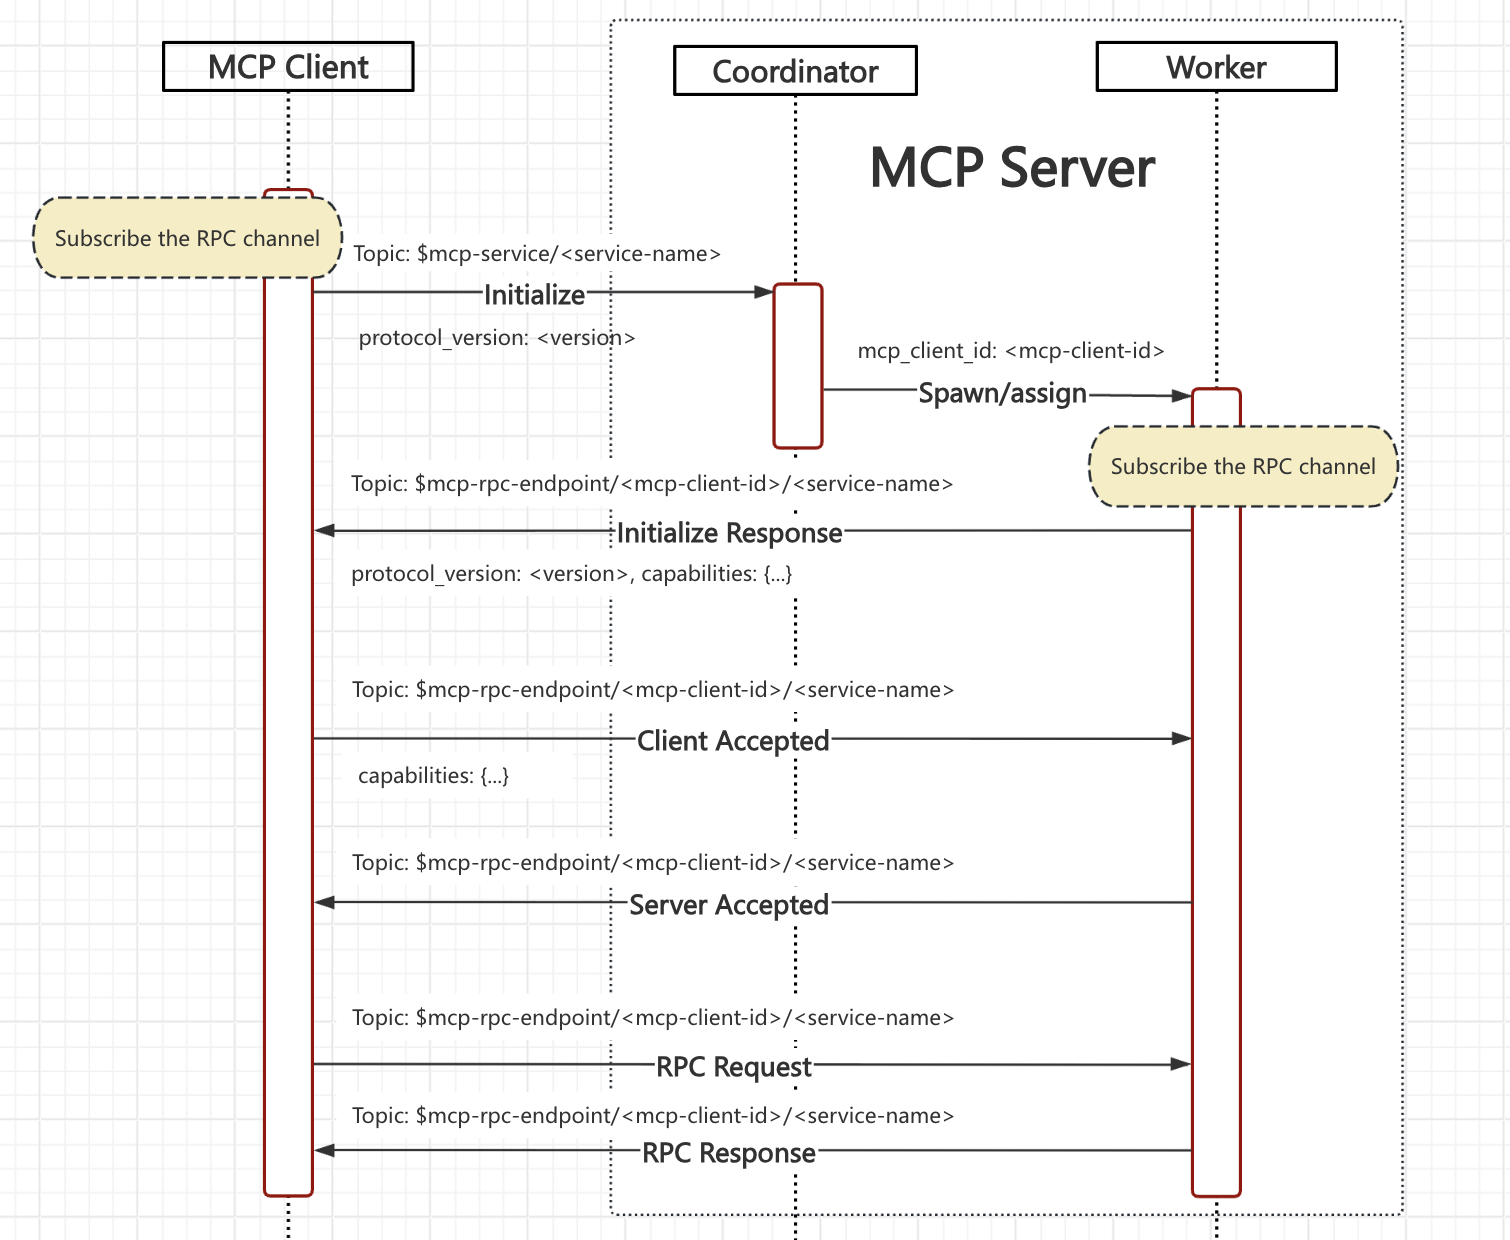
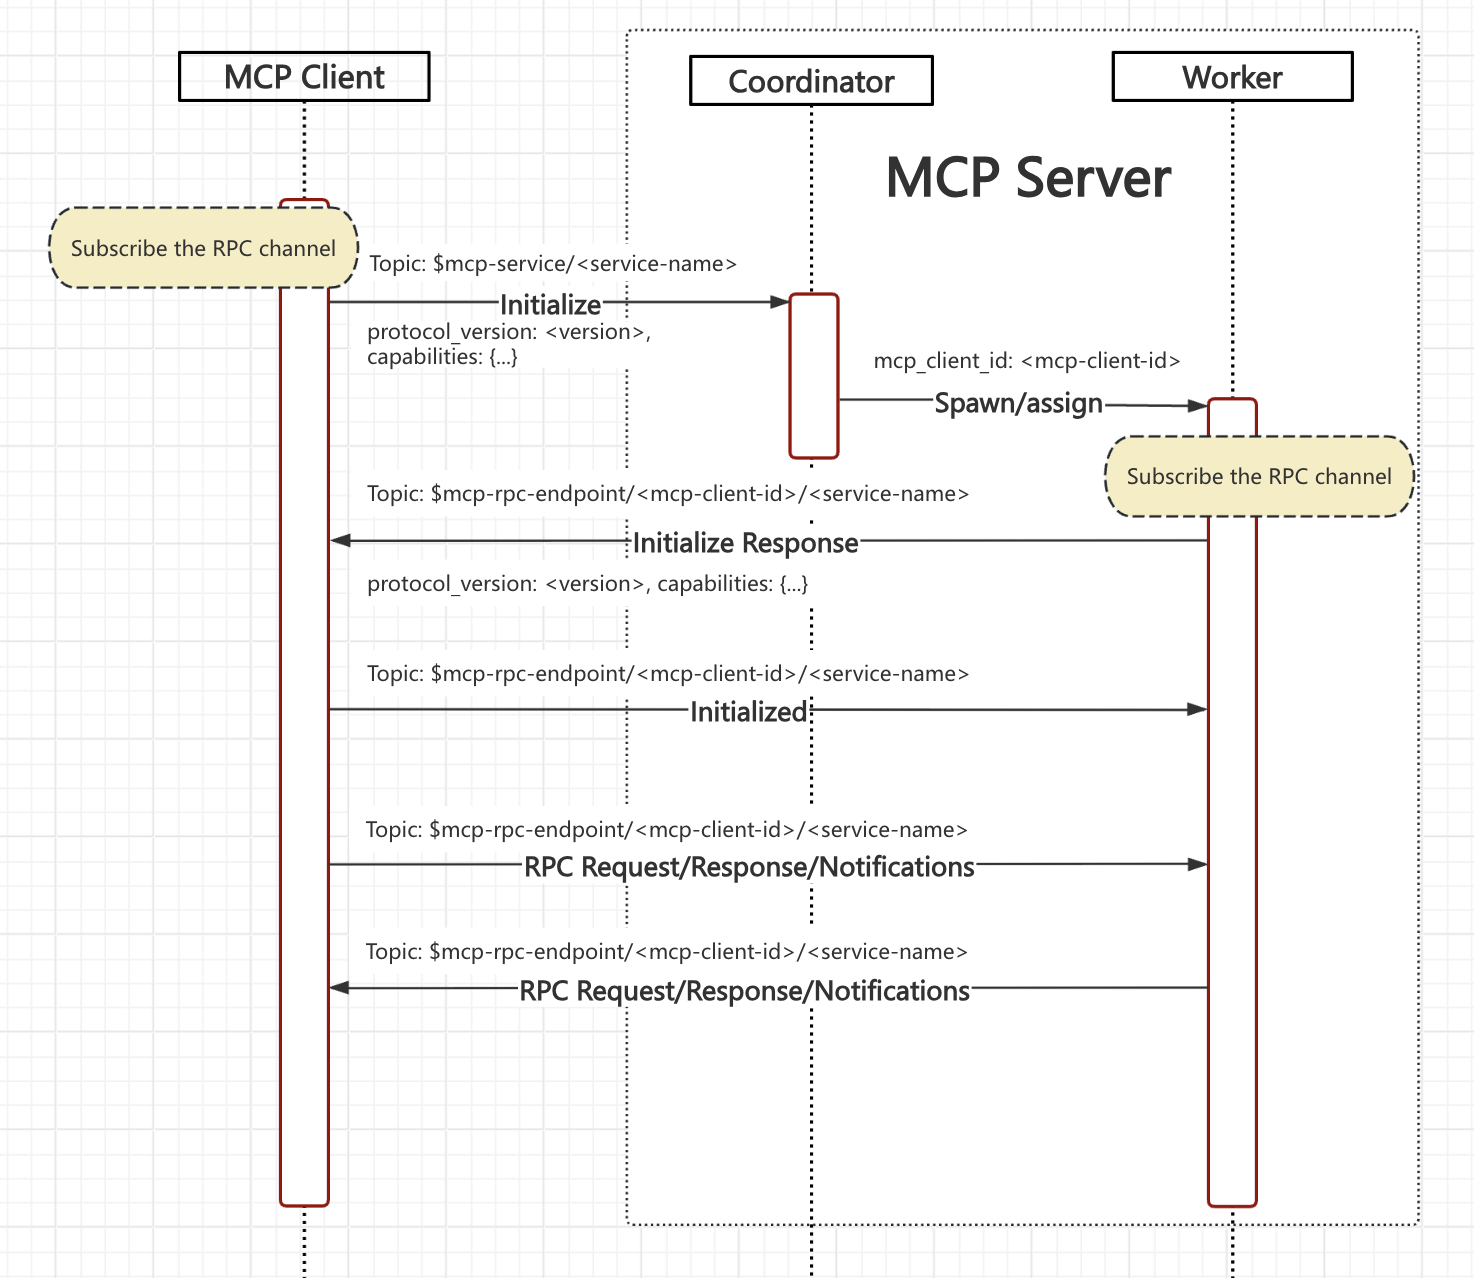
add docs for resource update

diff --git a/content/docs/specification/draft/basic/transports.md b/content/docs/specification/draft/basic/transports.md
@@ -5,7 +5,7 @@ weight: 10
 ---
 
 {{< callout type="info" >}}
-This page is modified from [MCP-Architecture](https://spec.modelcontextprotocol.io/specification/draft/basic/transports/) for the MQTT transport layer, modifications include:
+This page is modified from [MCP-Transport](https://spec.modelcontextprotocol.io/specification/draft/basic/transports/) for the MQTT transport layer, modifications include:
 
 - Rewrite for MQTT transport
 {{< /callout >}}
@@ -31,6 +31,8 @@ MCP uses JSON-RPC to encode messages. JSON-RPC messages **MUST** be UTF-8 encode
 - **service-name-filter**: The topic filter to match the `service-name`.
 
 - **service-id**: The MQTT Client ID of the MCP Server. Any string except `/`. It must be globally unique and will also be included in the topic.
+
+- **resource-id**: The resource ID identifies a resource that the server is managing. Any string except `/`. It must be unique within the service.
 
 - **mcp-client-id**: The MQTT Client ID of the client. Any string except `/`. It must be globally unique and will be included in the topic.
 
@@ -74,43 +76,42 @@ When scaling up, existing MCP Clients remain connected to the old service proces
 
 When scaling down, established RPC channels are interrupted, causing MCP Clients to re-initiate initialization requests to the MCP Server, thereby connecting to another service process.
 
-## Topics and Message Channels  
+# MQTT Requirements and Conventions
 
-MCP over MQTT transmits messages through MQTT topics, where each MQTT topic is referred to as a "channel" This protocol includes the following message channels:  
+## Message Channels (Topics) 
 
-- **Server Control Channel**: `$mcp-service/<service-name>`  
-  Used for sending and receiving initialization messages and other control messages.  
+MCP over MQTT transmits messages through MQTT topics, where each MQTT topic is referred to as a "channel". This protocol includes the following message channels:  
 
-- **Server Capability Update Channel**: `$mcp-service/capability-change/<service-id>/<service-name>`  
-  Used for sending and receiving server capability update messages.  
+| Channel Name                    | Topic Name                                            | Description |
+|---------------------------------|-------------------------------------------------------|-------------|
+| Server Control Channel          | `$mcp-service/<service-name>`                         | Used for sending and receiving initialization messages and other control messages. |
+| Server Capability Change Channel| `$mcp-service/capability-change/<service-id>/<service-name>` | Used for sending and receiving server capability list changed notification. |
+| Server Resource Update Channel| `$mcp-service/resource-update/<service-id>/<resource-id>` | Used for sending and receiving server resource updated notification. |
+| Service Discovery Channel       | `$mcp-service/presence/<service-id>/<service-name>`   | Used for sending and receiving server online/offline status messages. |
+| Client Capability Change Channel| `$mcp-client/capability-change/<mcp-client-id>`       | Used for sending and receiving client capability list changed notification. |
+| RPC Channel                     | `$mcp-rpc-endpoint/<mcp-client-id>/<service-name>`    | Used for sending and receiving RPC requests, RPC responses, and notification messages. |
 
-- **Service Discovery Channel**: `$mcp-service/presence/<service-id>/<service-name>`  
-  Used for sending and receiving server online/offline status messages.  
+## MQTT Version
 
-- **Client Capability Update Channel**: `$mcp-client/capability-change/<mcp-client-id>`  
-  Used for sending and receiving client capability update messages.  
+The server and client **MUST** use MQTT version 5.0.
 
-- **RPC Channel**: `$mcp-rpc-endpoint/<mcp-client-id>/<service-name>`  
-  Used for sending and receiving RPC requests, RPC responses, and notification messages.
+## QoS
 
-## MQTT Requirements and Conventions
+The QoS level for all messages **MUST** be 1.
 
-- **MQTT Version**: The server and client **MUST** use MQTT version 5.0.
-- **QoS**: The QoS level for all messages **MUST** be 1.
-
-## MQTT ClientID
+## MQTT Client ID
 
 ### Server Coordinator
 
-The ClientID of the Coordinator can be any string except `/`, referred to as service-id.
+The Client ID of the Coordinator can be any string except `/`, referred to as `service-id`.
 
 ### Server Worker
 
-The ClientID of the Worker is `<service-id>:<ID>`, where service-id is the ClientID of the Coordinator, and `<ID>` can be any string except `/`.
+The Client ID of the Worker is `<service-id>:<ID>`, where `<service-id>` is the Client ID of the Coordinator, and `<ID>` can be any string except `/`.
 
 ### MCP Client
 
-The ClientID of the MCP Client, referred to as `mcp-client-id`, can be any string except `/`.
+The Client ID of the MCP Client, referred to as `mcp-client-id`, can be any string except `/`.
 
 ## MQTT Topics and Topic Filters
 
@@ -118,36 +119,44 @@ The ClientID of the MCP Client, referred to as `mcp-client-id`, can be any strin
 
 | Subscriber         | Topic Filter                                         | Explanation |
 |-------------------|----------------------------------------------------|-------------|
-| Server Coordinator | `$share/any/$mcp-service/<service-name>`          | The control channel of the MCP server to receive control plane messages. We use shared subscription to force a message only goes to exactly 1 coordinator. |
-| Server Coordinator | `$mcp-client/capability-change/<mcp-client-id>`   | The client’s capability change channel to receive capability updates of the clients. |
+| Server Coordinator | `$share/any/$mcp-service/<service-name>`          | The control channel of the MCP server to receive control plane messages. We use shared subscription to force a message only goes to exactly one coordinator. |
+| Server Worker | `$mcp-client/capability-change/<mcp-client-id>`   | The client’s capability change channel to receive capability list changed notification of the clients. |
 | Server Worker      | `$mcp-rpc-endpoint/<mcp-client-id>/<service-name>` <br> - Set `no local` flag | The RPC channel to receive RPC requests, RPC responses, and notifications from a client. |
 
 ### Topics that MCP Server Publishes to
 
 | Publisher          | Topic Name                                            | Messages |
 |-------------------|------------------------------------------------------|----------|
-| Server Coordinator | `$mcp-service/capability-change/<service-id>/<service-name>` | Capability updated messages. See the details below this table. |
-| Server Coordinator | `$mcp-service/presence/<service-id>/<service-name>` <br> - Retain Flag: true <br> - Also set as a will topic to clear the retain message when offline | Presence messages for the MCP Server. <br> See the details below this table. |
-| Server Worker      | `$mcp-rpc-endpoint/<mcp-client-id>/<service-name>` <br> - Set as a will topic and the will msg is an offline notification | RPC requests, responses and notifications. <br> The offline msg (set will topic) is also a notification sent on this channel. |
+| Server Coordinator | `$mcp-service/capability-change/<service-id>/<service-name>` | capability changed notification.|
+| Server Coordinator | `$mcp-service/presence/<service-id>/<service-name>` <br> - Retain Flag: true <br> - Also set as a will topic with empty payload to clear the retain message when offline | Presence messages for the MCP Server. <br> See the details below this table. |
+| Server Coordinator | `$mcp-service/resource-update/<service-id>/<resource-id>` | Resource update notification.|
+| Server Worker      | `$mcp-rpc-endpoint/<mcp-client-id>/<service-name>` <br> - Set as a will topic with the payload to the `disconnected` notification | RPC requests, responses and notifications. |
 
 **Details:**
 
-The Presence message only contains service description information to avoid message size overhead. Detailed tool parameters are included in the capability message:
+The presence message **SHOULD** provide only limited information about the service to avoid excessive message size:
+
+- A brief description of the service's functionality to help clients determine which services they need to call.
+- Some metadata, such as hints about the permissions required to access this service, to help clients quickly assess whether they have access.
+
+More detailed information, such as parameter details of the tools, **SHOULD** be included in the capability message instead when the client initializes the service:
 
 ```json
-{"description": "This is a comprehensive description that details the functionalities provided by this service. If tools are provided, it explains which tools are available and their purposes but does not include tool parameters to reduce message size."}
-```
-
-Format of the capability change message:
-
-```json
-{"capability": {"<capability-name>": {...}}}
+{
+  "jsonrpc": "2.0",
+  "method": "notifications/service-online",
+  "params": {
+      "description": "This is a brief description about the functionalities provided by this service to allow clients to choose as needed. If tools are provided, it explains which tools are available but does not include tool parameters to reduce message size.",
+      "metadata": {}
+  }
+}
 ```
 
 ### Topics that MCP Client Subscribes to
 | Subscriber | Topic Filter                                         | Explanation |
 |------------|------------------------------------------------------|-------------|
-| Client     | `$mcp-service/capability-change/+/<service-name-filter>` | The capability change channel to receive capability updates of the service. |
+| Client     | `$mcp-service/capability-change/+/<service-name-filter>` | The capability change channel to receive capability list changed notification of the service. |
+| Client     | `$mcp-service/resource-update/+/<resource-id>` | The resource update channel to receive resource update notification of the service. |
 | Client     | `$mcp-service/presence/+/<service-name-filter>`      | The service discovery channel to receive the presence message of the service. |
 | Client     | `$mcp-rpc-endpoint/<mcp-client-id>/<service-name-filter>` <br> - Set `no local` flag | The RPC channel to receive PRC requests, responses and notifications sent by the MCP server. |
 
@@ -156,7 +165,7 @@ Format of the capability change message:
 | Publisher | Topic Name                                         | Messages |
 |-----------|---------------------------------------------------|----------|
 | Client    | `$mcp-service/<service-name>`                     | Send control plane messages like initialize. |
-| Client    | `$mcp-client/capability-change/<mcp-client-id>`   | Send client capability changes |
+| Client    | `$mcp-client/capability-change/<mcp-client-id>`   | Send client capability list changed notification |
 | Client    | `$mcp-rpc-endpoint/<mcp-client-id>/<service-name>` | The RPC channel to send RPC requests/responses to a specific server. |
 
 ## MQTT Authentication and Authorization

diff --git a/content/docs/specification/draft/basic/lifecycle.md b/content/docs/specification/draft/basic/lifecycle.md
@@ -5,7 +5,7 @@ weight: 30
 ---
 
 {{< callout type="info" >}}
-This page is modified from [MCP-Architecture](https://spec.modelcontextprotocol.io/specification/draft/basic/lifecyle/) for the MQTT transport layer, modifications include:
+This page is modified from [MCP-Lifecycle](https://spec.modelcontextprotocol.io/specification/draft/basic/lifecycle/) for the MQTT transport layer, modifications include:
 
 - Rewrite for MQTT transport
 {{< /callout >}}
@@ -28,8 +28,7 @@ sequenceDiagram
     activate Client
     Client->>+Server: initialize request
     Server-->>Client: initialize response
-    Client--)Server: client accepted notification
-    Server--)Client: server accepted notification
+    Client--)Server: initialized notification
 
     Note over Client,Server: Operation Phase
     rect rgb(200, 220, 250)
@@ -48,11 +47,11 @@ sequenceDiagram
 
 After the MCP server starts, it registers its service with the MQTT Broker. The channel (MQTT topic) for service discovery and registry is: `$mcp-service/presence/<service-id>/<service-name>`.
 
-The message payload **SHOULD** comprehensively describe the functionalities provided by the service, but to reduce the message size, it **SHOULD NOT** include overly detailed information such as function parameters. This topic **MUST** have the Retained Flag set to True, and in the CONNECT message, it **MUST** also be set as the Last Will Msg with an empty payload.
+The message payload **SHOULD** briefly describe the functionalities provided by the service. To reduce the message size, it **SHOULD NOT** include overly detailed information such as tool parameters. This topic **MUST** have the Retained Flag set to True, and in the CONNECT message, it **MUST** also be set as the Last Will Msg with an empty payload.
 
 The client can subscribe to the `$mcp-service/presence/+/<service-name-filter>` topic at any time, where `<service-name-filter>` is a filter for the service name.
 
-For example, if the client determines through its permissions that it can only access services of type `<service-type>/<sub-type>`, it can subscribe to `$mcp-service/presence/+/<service-type>/<sub-type>/#`, thereby subscribing to the service discovery channel for all services of the `<sub-type>` type at once.
+For example, if the service name is `<service-type>/<sub-type>/<name>`, and the client determines through its permissions that it can only access services of type `<service-type>/<sub-type>`, it can subscribe to `$mcp-service/presence/+/<service-type>/<sub-type>/#`, thereby subscribing to the service discovery channel for all services of the `<sub-type>` type at once.
 
 Although the client can subscribe to `$mcp-service/presence/+/#` to get all types of services, the administrator might restrict it through ACL (Access Control List) on the MQTT Broker to only send and receive messages on RPC channels like `$mcp-rpc-endpoint/<mcp-client-id>/<service-type>/<sub-type>/#`. Therefore, subscribing to overly broad topics is not useful. By designing the `<service-name-filter>` appropriately, the client can reduce interference from irrelevant information.
 
@@ -79,6 +78,7 @@ If the coordinator supports the requested protocol version, it assigns a worker 
 The client **MUST** initiate this phase by sending an `initialize` request containing:
 
 - Protocol version supported
+- Client capabilities
 - Client implementation information
 
 ```json
@@ -88,6 +88,12 @@ The client **MUST** initiate this phase by sending an `initialize` request conta
   "method": "initialize",
   "params": {
     "protocolVersion": "2024-11-05",
+    "capabilities": {
+      "roots": {
+        "listChanged": true
+      },
+      "sampling": {}
+    },
     "clientInfo": {
       "name": "ExampleClient",
       "version": "1.0.0"
@@ -125,40 +131,21 @@ The server **MUST** respond with its own capabilities and information:
 }
 ```
 
-After successful initialization, on the RPC channel, the client **MUST** send an `accepted` notification
-to indicate it has accepted the negotiation, and is ready to begin normal operations. The notification **MUST** include the client's capabilities:
+After successful initialization, the client MUST send an initialized notification to indicate it is ready to begin normal operations:
 
 ```json
 {
   "jsonrpc": "2.0",
-  "method": "notifications/accepted",
-  "params": {
-    "capabilities": {
-      "roots": {
-        "listChanged": true
-      },
-      "sampling": {}
-    }
-  }
-}
-```
-
-If the server accepts the capabilities, on the RPC channel, the server worker **MUST** send an `accepted` notification to indicate it has accepted the negotiation, and is ready to begin normal operations:
-
-```json
-{
-  "jsonrpc": "2.0",
-  "method": "notifications/accepted"
+  "method": "notifications/initialized"
 }
 ```
 
 - The client **SHOULD NOT** send requests other than
-  [pings]({{< ref "/docs/specification/draft/basic/utilities/ping" >}}) before receiving
-  the `accepted` notification.
+  [pings]({{< ref "/docs/specification/draft/basic/utilities/ping" >}}) before the server has responded to the initialize request.
 - The server **SHOULD NOT** send requests other than
   [pings]({{< ref "/docs/specification/draft/basic/utilities/ping" >}}) and
   [logging]({{< ref "/docs/specification/draft/server/utilities/logging" >}}) before receiving
-  the `accepted` notification.
+  the `initialized` notification.
 
 #### Version Negotiation
 
@@ -198,23 +185,26 @@ Capability objects can describe sub-capabilities like:
 
 ### Capability Update
 
-After the MCP Client negotiates capabilities with the MCP Server Worker, both parties cache each other's capability lists. Then, they obtain updated capabilities by subscribing to each other's capability update topics.
-
 Before initiating the Initialize request, the MCP Client must subscribe to the MCP Server's capability update topic: `$mcp-service/capability-change/+/<service-name-filter>`, where `<service-name-filter>` is a filter for the service name.
 
 For example, during the service discovery phase, if a service named `<service-type>/<sub-type>/<name>` is available, the client can subscribe to `$mcp-service/capability-change/+/<service-type>/<sub-type>/#`, thereby subscribing to the capability update channel for all services of the `<sub-type>` type at once.
 
-The MCP Server Worker first subscribes to the client's capability update channel: `$mcp-client/capability-change/<mcp-client-id>`. Then, in the Initialize Response message, it carries the server's complete capability information.
+The MCP Server Worker first subscribes to the client's capability update channel: `$mcp-client/capability-change/<mcp-client-id>`. Then it sends the initialize response message and carries the server's complete capability information.
 
-Finally, the MCP Client includes its complete capability information in its Accepted message.
+If there are subsequent capability list updates:
 
-If there are subsequent capability updates:
+- The client sends a notification to: `$mcp-client/capability-change/<mcp-client-id>`
 
-- The client sends the updated capability to: `$mcp-client/capability-change/<mcp-client-id>`
+- The server (coordinator) will send a notification to: `$mcp-service/capability-change/<service-id>/<service-name>`
 
-- The server (Coordinator) will send the updated capability to: `$mcp-service/capability-change/<service-id>/<service-name>`
+![Capability Update](assets/mcp-capability-change.png)
 
-![Capability Update](assets/mcp-capability-update.png)
+### Resource Update
+The MCP protocol specifies that the client can subscribe to changes of a specific resource. When the resource changes, the MCP server will send a resource update notification.
+
+After the initialization is complete, if the server has resources, the client will use the "resources/list" RPC call to obtain the complete list of resources. If the server provides the capability to subscribe to resources, the client can specify the resource ID to subscribe to changes of that resource. The topic for the client to subscribe to resource changes is: `$mcp-service/resource-update/<service-id>/<resource-id>`.
+
+![Resource Update](assets/mcp-resource-update.png)
 
 ### Operation
 
